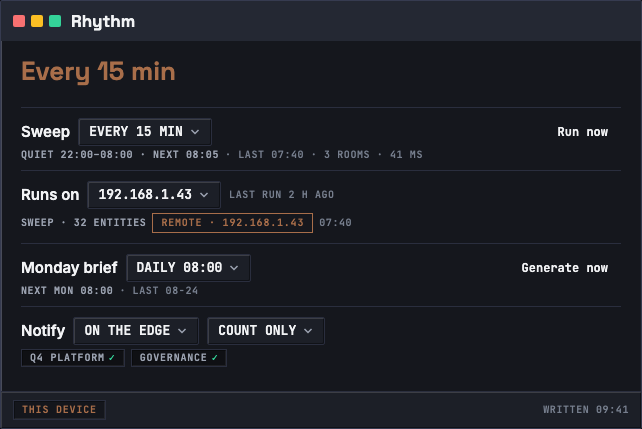
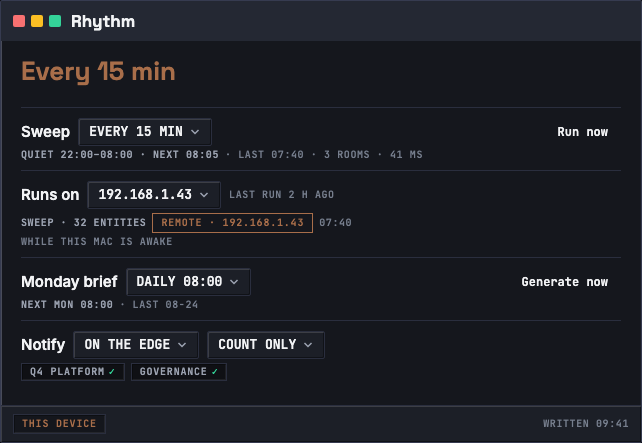
docs(pmo): HS-174-01 — Runs on carries no second Run now; WHILE THIS MAC IS AWAKE under the row (counsel C1/C3)
Claude-Session: https://claude.ai/code/session_016siGSBgZph9EhEdGMoyWcu
PMO-Story: HS-174-01
PMO-Contract-Digest: sha256:8270352a02040d1a5226639469511ebf7e2e3ae2f6ed44b93f903598aa268f1f

diff --git a/pm/roadmap/holdspeak/phase-174-reach/assets/mockups/ReachPhone.dc.html b/pm/roadmap/holdspeak/phase-174-reach/assets/mockups/ReachPhone.dc.html
@@ -67,11 +67,9 @@
     </div>
 
     <div style="padding:10px 14px 12px; display:flex; flex-direction:column; gap:6px;">
-      <!-- Line 1: primary + Run now -->
+      <!-- Line 1: primary (no trailing verb -- Run now lives on Sweep only) -->
       <div style="display:flex; align-items:center; gap:8px;">
         <span style="font:600 14px/1.4 'Inter',system-ui,-apple-system,BlinkMacSystemFont,'Segoe UI',sans-serif; color:#f2f3f5;">Runs on</span>
-        <span style="flex:1;"></span>
-        <button type="button" style="min-height:24px; padding:2px 8px; border:1px solid transparent; border-radius:0; background:transparent; color:#f2f3f5; font:600 11px/1 'JetBrains Mono','SFMono-Regular','SF Mono',Consolas,'Liberation Mono',monospace; cursor:pointer; flex-shrink:0;">Run now</button>
       </div>
       <!-- Line 2: CycleGadget -->
       <div style="display:flex; flex-wrap:wrap; align-items:center; gap:4px 6px;">
@@ -89,6 +87,10 @@
         <!-- REMOTE chip -->
         <span style="display:inline-flex; align-items:center; min-height:18px; padding:0 8px; border:1px solid #a86e4a; border-radius:0; background:transparent; font:600 10px/1 'JetBrains Mono','SFMono-Regular','SF Mono',Consolas,'Liberation Mono',monospace; letter-spacing:0.08em; text-transform:uppercase; color:#a86e4a; white-space:nowrap;">REMOTE &middot; 192.168.1.43</span>
         <span style="font:600 10px/1 'JetBrains Mono','SFMono-Regular','SF Mono',Consolas,'Liberation Mono',monospace; letter-spacing:0.06em; text-transform:uppercase; color:#767e8d; white-space:nowrap;">07:40</span>
+      </div>
+      <!-- Honest limit caption (remote host selected) -->
+      <div style="display:flex; flex-wrap:wrap; align-items:center; gap:4px 6px;">
+        <span style="font:600 10px/1 'JetBrains Mono','SFMono-Regular','SF Mono',Consolas,'Liberation Mono',monospace; letter-spacing:0.06em; text-transform:uppercase; color:#767e8d; white-space:nowrap;">WHILE THIS MAC IS AWAKE</span>
       </div>
     </div>
   </div>

diff --git a/pm/roadmap/holdspeak/phase-174-reach/assets/mockups/RhythmRunsOn.dc.html b/pm/roadmap/holdspeak/phase-174-reach/assets/mockups/RhythmRunsOn.dc.html
@@ -68,6 +68,10 @@
           <span style="display:inline-flex; align-items:center; min-height:18px; padding:0 8px; border:1px solid #a86e4a; border-radius:0; background:transparent; font:600 10px/1 'JetBrains Mono','SFMono-Regular','SF Mono',Consolas,'Liberation Mono',monospace; letter-spacing:0.08em; text-transform:uppercase; color:#a86e4a; white-space:nowrap;">REMOTE &middot; 192.168.1.43</span>
           <span style="font:600 10px/1 'JetBrains Mono','SFMono-Regular','SF Mono',Consolas,'Liberation Mono',monospace; letter-spacing:0.06em; text-transform:uppercase; color:#767e8d; white-space:nowrap;">07:40</span>
         </div>
+        <!-- Honest limit caption (remote host selected) -->
+        <div style="display:flex; flex-wrap:wrap; align-items:center; gap:4px 6px;">
+          <span style="font:600 10px/1 'JetBrains Mono','SFMono-Regular','SF Mono',Consolas,'Liberation Mono',monospace; letter-spacing:0.06em; text-transform:uppercase; color:#767e8d; white-space:nowrap;">WHILE THIS MAC IS AWAKE</span>
+        </div>
       </div>
 
       <!-- Row: MONDAY BRIEF -->
